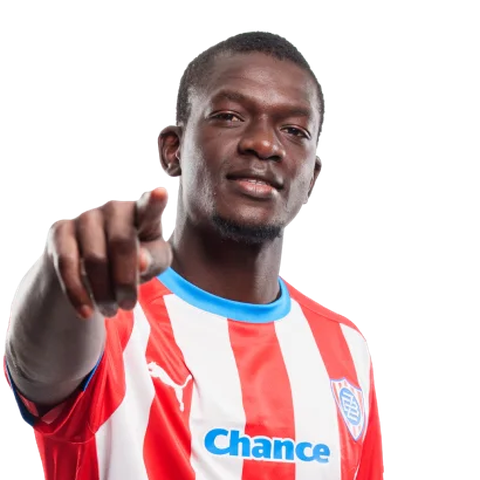
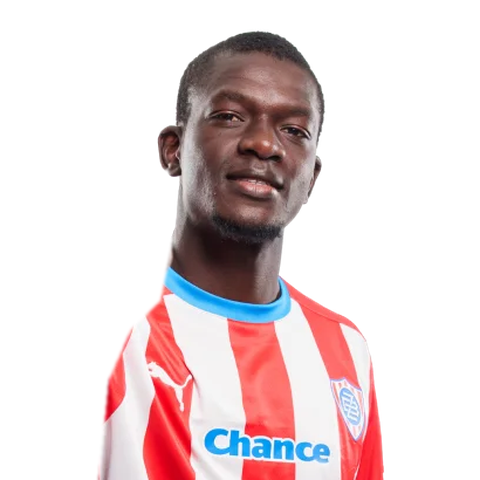
Danté : main tendue effacée de la photo
Claude-Session: https://claude.ai/code/session_01HrXdBFJwxbhqadNHYHNDER

Changed region(s): [[0.0, 0.375, 0.375, 1.0], [0.3438, 0.3438, 0.375, 0.375]]

diff --git a/visuels/photos/SOURCES.md b/visuels/photos/SOURCES.md
@@ -22,4 +22,4 @@
 | kiki-kouyate (id du registre) | Boubakar « Kiki » Kouyaté | kiki-kouyate.png (original : kiki-kouyate_original.png) | visuel officiel « Welcome » d'Al-Khaleej Club (Arabie saoudite), repris sur Facebook (Yiriba Sport 2.0, 15 juin 2026), capture envoyée par Diaby le 2026-10-16 | Al-Khaleej Club | non libre : à retirer si demandé | 2026-06 | recadrée sur la tête (480 px), fond retiré (rembg) |
 | sikou-niakate (id du registre) | Sikou Niakaté | sikou-niakate.png (original : sikou-niakate_original.png) | photo officielle de présentation du SC Braga (scbraga.pt), fichier envoyé par Diaby le 2026-10-16 | SC Braga | photo officielle du club, non libre : à retirer si le club le demande | maillot 2025-26 | recadrée sur la tête (360 px → 480 px), fond retiré (rembg), reste du poteau au-dessus de la tête effacé |
 | lassana-coulibaly (id du registre) | Lassana Coulibaly | lassana-coulibaly.png (original : lassana-coulibaly_original.png) | portrait officiel de l'US Lecce (maillot M908, saison 2024-25), fichier envoyé par Diaby le 2026-10-16 ; la fiche actuelle est https://uslecce.it/giocatori/lassana-coulibaly-3/ (maillot adidas 2026-27) | US Lecce | photo officielle du club, non libre : à retirer si le club le demande | 2024-25 | recadrée sur la tête et les épaules (400 px → 480 px), fond retiré (rembg) |
-| amadou-dante (id du registre) | Amadou Danté | amadou-dante.png (original : amadou-dante_original.png) | portrait officiel 2026 du FC Zbrojovka Brno, fiche https://fczbrno.cz/player/2137/MUZ (fichier fczbrno.esports.cz/foto/2026_MUZ-profil/Dante-Amadou.png), envoyé par Diaby le 2026-10-16 | FC Zbrojovka Brno | photo officielle du club, non libre : à retirer si le club le demande | 2026 | recadrée sur la tête et les épaules (410 px → 480 px), fond transparent d'origine ; pose bras tendu, la main est dans le cadre |
+| amadou-dante (id du registre) | Amadou Danté | amadou-dante.png (original : amadou-dante_original.png) | portrait officiel 2026 du FC Zbrojovka Brno, fiche https://fczbrno.cz/player/2137/MUZ (fichier fczbrno.esports.cz/foto/2026_MUZ-profil/Dante-Amadou.png), envoyé par Diaby le 2026-10-16 | FC Zbrojovka Brno | photo officielle du club, non libre : à retirer si le club le demande | 2026 | recadrée sur la tête et les épaules (410 px → 480 px), fond transparent d'origine ; pose bras tendu : main et avant-bras effacés à la demande de Diaby (le 2026-10-16), épaule gauche détourée |
